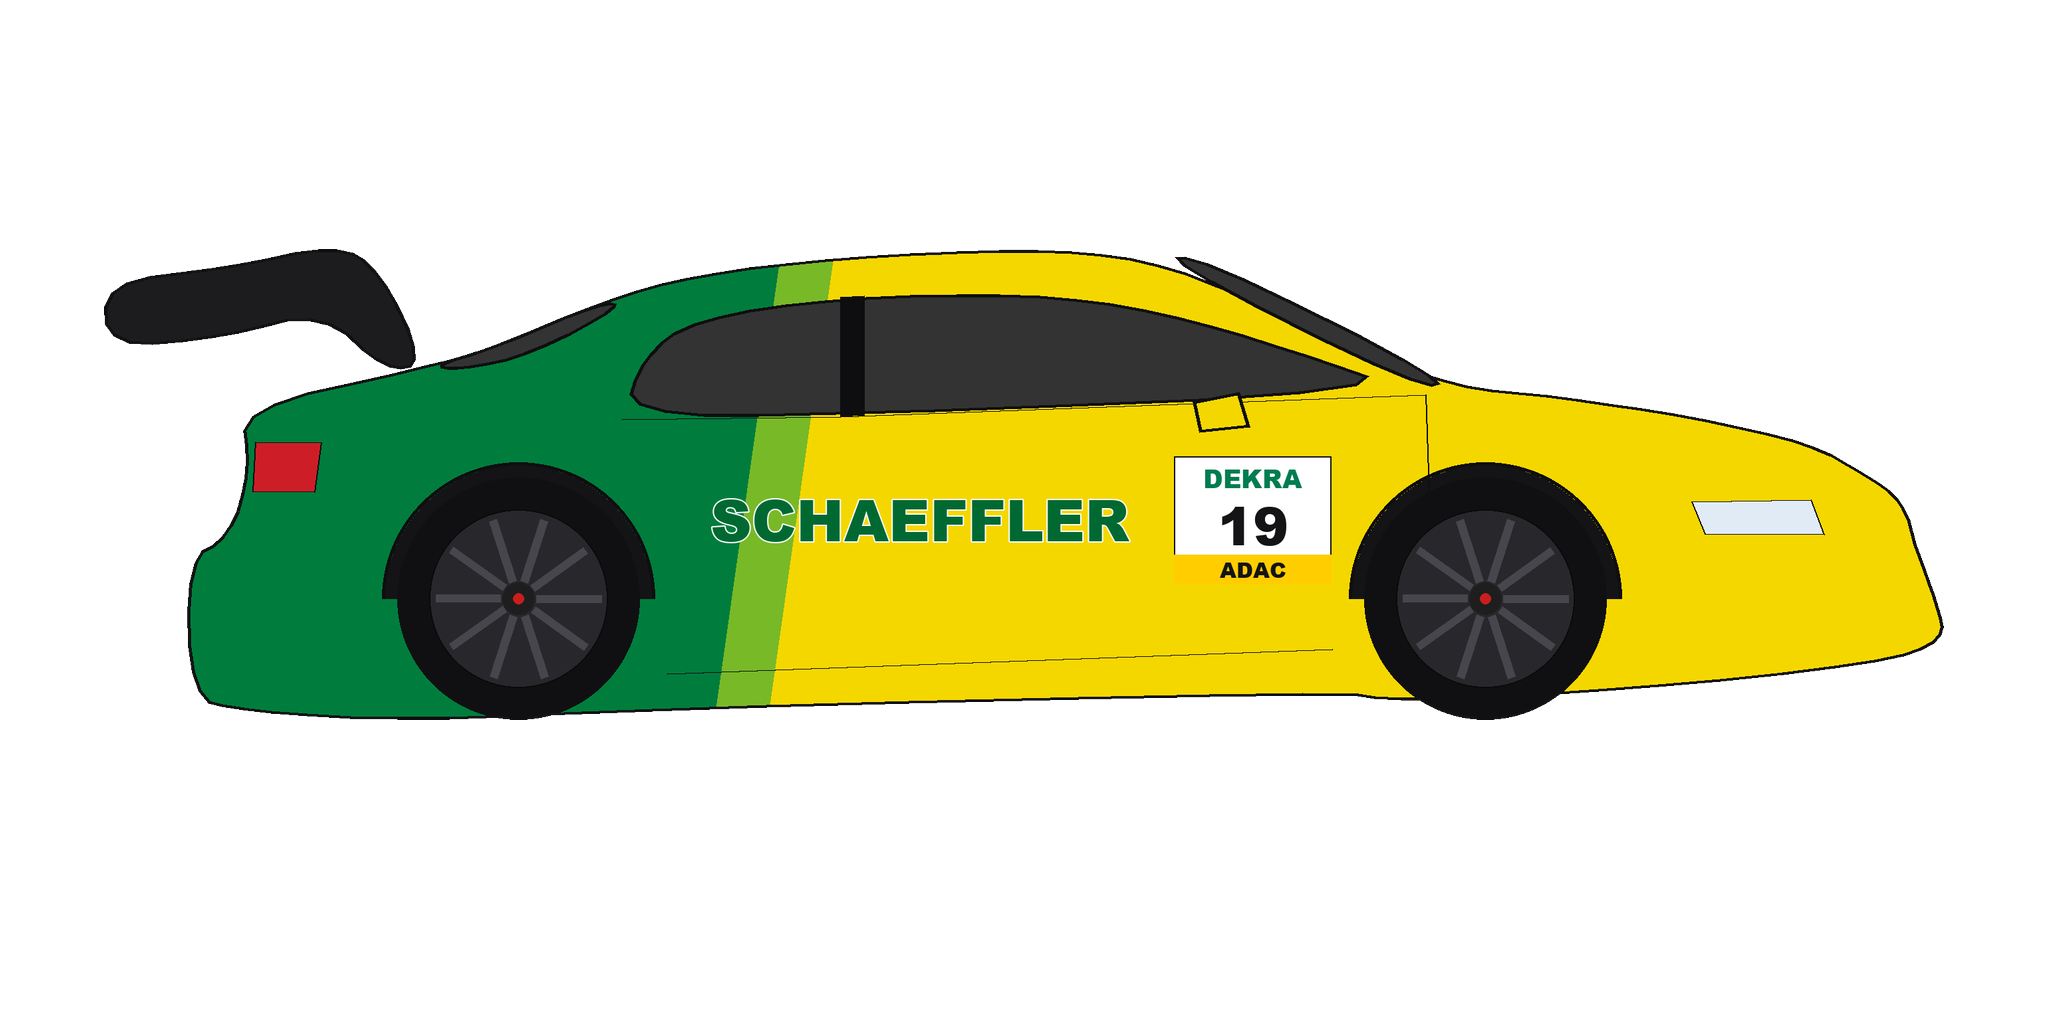
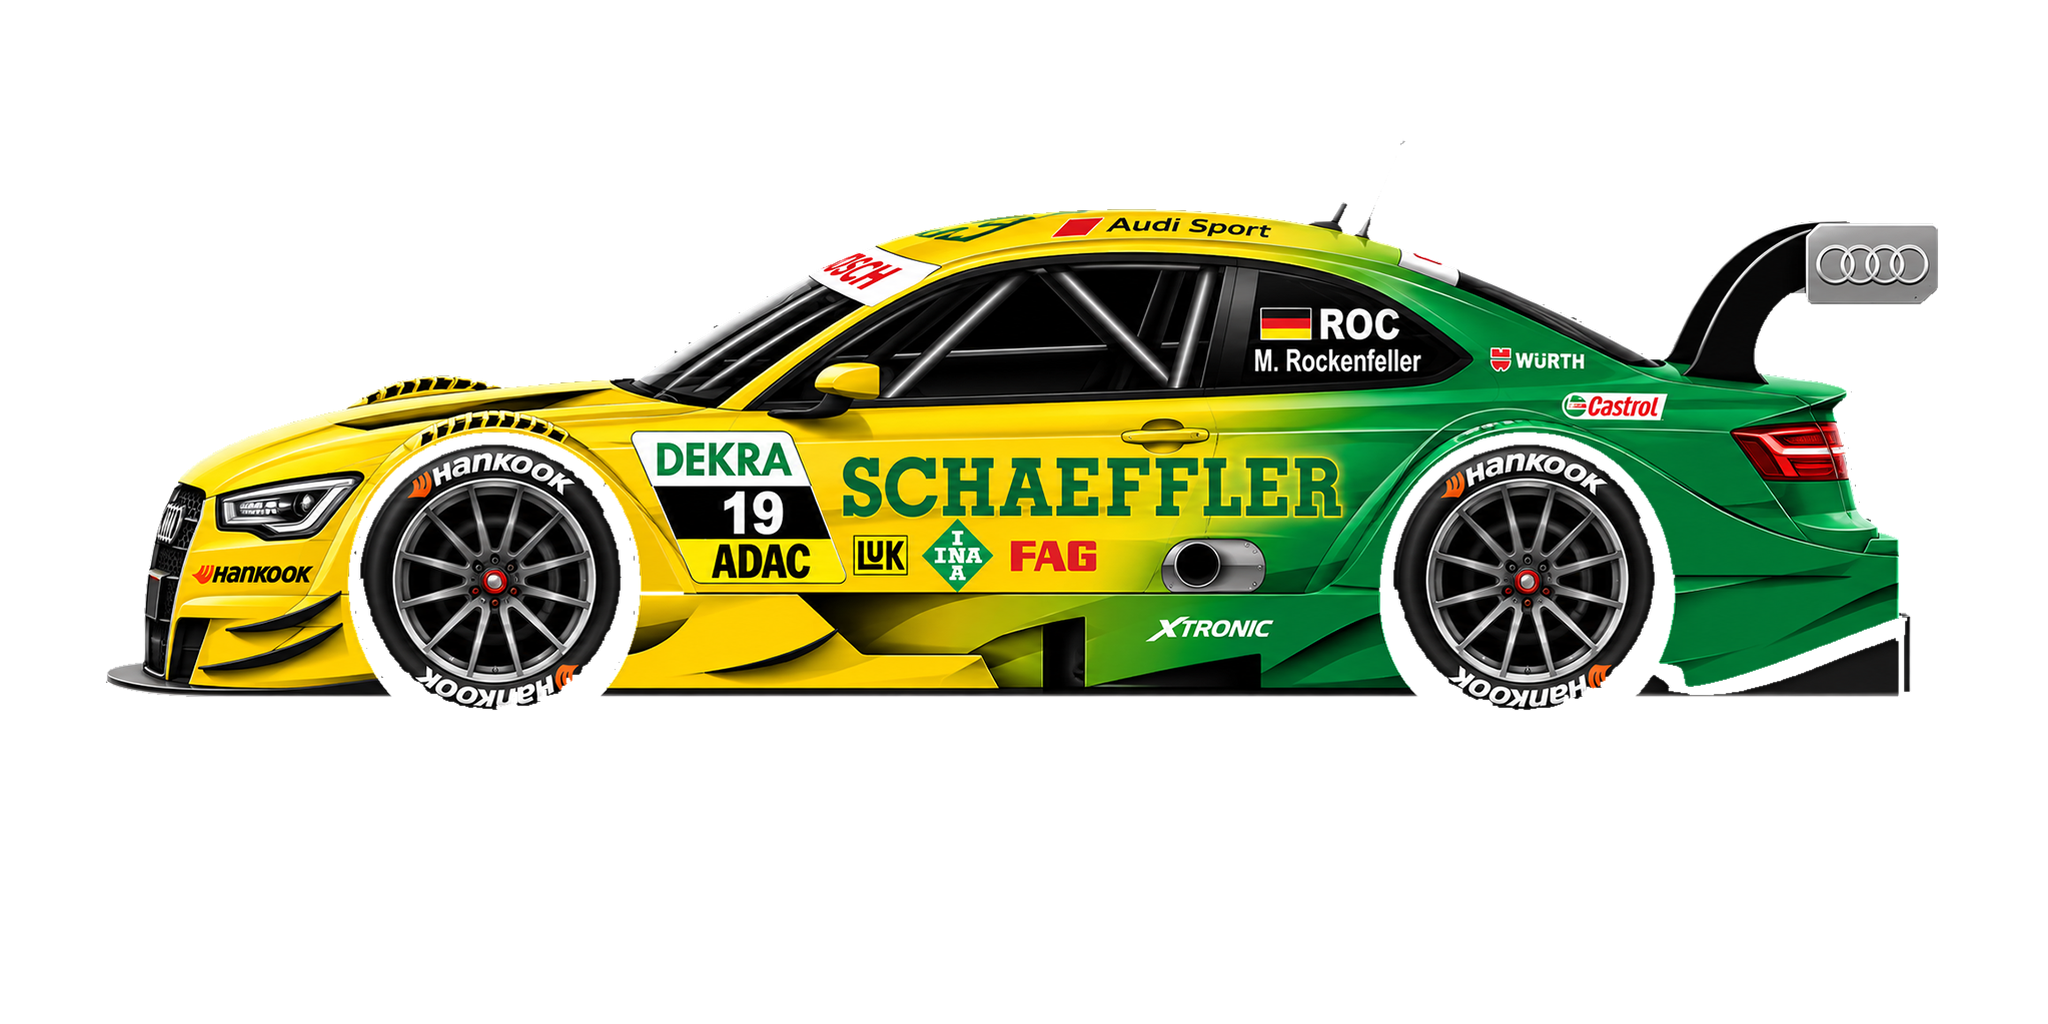
DTM 2013: car images drawn by Pappydhorn12
All 11 team images are now Pappydhorn12's drawings, used with the
artist's permission (all rights stay with the artist; see
LICENSE-CONTENT.md and credits.txt).

New tools/car_drawings.py crops the artist's team sheets (cars on black,
stacked) into the 2048x1024 team images, using art/drawings.json to pick
each team's lower-numbered car. car_art.py now skips teams that have a
drawing.

Checked against the 2013 spotter guide: every livery matches apart from
two text details (#23 "T. Schneider", #5 SCHAEFFLER for PLAYBOY). The
sheet named RBM shows the 2014 M4 cars and isn't used; the 2013 RBM cars
come from the first sheet named Schnitzer.

diff --git a/tools/car_drawings.py b/tools/car_drawings.py
@@ -1,0 +1,151 @@
+"""Crop hand-drawn car sheets into the game's 2048x1024 team car images.
+
+A season's art/drawings.json lists sheets from an artist: square images of a
+team's cars on a black background, stacked top to bottom. Each car is cut
+out (the background made transparent), scaled to the span car_art.py uses
+(1840 px wide, wheels on y=720) and written:
+
+* the team image to <season>/assets/Cars/<Team>.png (the game shows one car
+  per team: the sheet's "team" takes its first car, "teams" names a car per
+  team);
+* every car to build/art/<season>/drawn_NN.png for checking.
+
+car_art.py skips the teams listed here, so a rerun doesn't overwrite them.
+
+The source folder is outside the repo: pass --source or set
+"car_drawings": {"<season folder>": "<dir>"} in local.json.
+
+Usage:
+    python tools/car_drawings.py seasons/dtm-2013 [--source DIR] [--preview]
+"""
+
+import argparse
+import json
+import math
+from pathlib import Path
+
+import numpy as np
+from PIL import Image, ImageChops, ImageDraw, ImageFilter
+from scipy import ndimage
+
+from car_art import CACHE, CANVAS, CAR_SPAN_PX, GROUND_Y, REPO, font, load_json
+
+BLACK_MAX = 6        # background is pure black; tyres and black bodies are lighter
+MIN_CAR_ROWS = 80    # a band of rows shorter than this is not a car
+BODY_ROW_PX = 40     # a row with fewer car pixels is an antenna or a gap
+
+
+def foreground(rgb):
+    """Pixels that aren't the black background reachable from the edges."""
+    dark = rgb.max(axis=2) <= BLACK_MAX
+    labels, _ = ndimage.label(dark)
+    edge = np.unique(np.concatenate([labels[0], labels[-1], labels[:, 0], labels[:, -1]]))
+    bg = np.isin(labels, edge[edge > 0])
+    return ~bg
+
+
+def cut_cars(path):
+    """The cars on a sheet, top to bottom, as RGBA crops."""
+    im = Image.open(path).convert("RGB")
+    rgb = np.asarray(im)
+    fg = foreground(rgb)
+    # Cars can sit so close that one's antenna touches the car above, so
+    # split on rows that are nearly empty (antennas only) rather than blank.
+    count = fg.sum(axis=1)
+    body = np.append(count >= BODY_ROW_PX, False)
+    runs, start = [], None
+    for y, on in enumerate(body):
+        if on and start is None:
+            start = y
+        elif not on and start is not None:
+            if y - start >= MIN_CAR_ROWS:
+                runs.append((start, y))
+            start = None
+    cuts = [0] + [a_end + int(np.argmin(count[a_end:b_start]))
+                  for (_, a_end), (b_start, _) in zip(runs, runs[1:])] + [len(count)]
+    bands = list(zip(cuts, cuts[1:]))
+    for (_, y1), (_, run_end) in zip(bands, runs):
+        # Under a car's sill, a thin sliver is the next car's antenna tip.
+        below = fg[run_end:y1]
+        if not below.size:
+            continue
+        labels, n = ndimage.label(below)
+        for i, sl in enumerate(ndimage.find_objects(labels), start=1):
+            if sl[1].stop - sl[1].start < 12:
+                below[labels == i] = False
+    alpha = Image.fromarray((fg * 255).astype(np.uint8))
+    # Pull the edge in by a pixel and soften it: the drawing is antialiased
+    # against black, which would leave a dark fringe on a light background.
+    alpha = alpha.filter(ImageFilter.MinFilter(3)).filter(ImageFilter.GaussianBlur(0.6))
+    rgba = im.copy()
+    rgba.putalpha(alpha)
+    cars = []
+    for y0, y1 in bands:
+        band = np.zeros_like(fg)
+        band[y0:y1] = fg[y0:y1]
+        rows, cols = np.where(band.any(axis=1))[0], np.where(band.any(axis=0))[0]
+        car = Image.new("RGBA", rgba.size, (0, 0, 0, 0))
+        car.paste(rgba, mask=Image.fromarray(band).convert("L").point(lambda v: 255 if v else 0))
+        car.putalpha(ImageChops.multiply(car.getchannel("A"), alpha))
+        cars.append(car.crop((int(cols[0]), int(rows[0]), int(cols[-1]) + 1, int(rows[-1]) + 1)))
+    return cars
+
+
+def place(car):
+    """A car crop on the game canvas, scaled to car_art.py's span and ground line."""
+    scale = CAR_SPAN_PX / car.width
+    w, h = CAR_SPAN_PX, round(car.height * scale)
+    if h > GROUND_Y:
+        raise SystemExit(f"car too tall for the canvas ({h} px)")
+    canvas = Image.new("RGBA", CANVAS, (0, 0, 0, 0))
+    canvas.alpha_composite(car.resize((w, h), Image.LANCZOS), ((CANVAS[0] - w) // 2, GROUND_Y - h))
+    return canvas
+
+
+def main():
+    parser = argparse.ArgumentParser(description=__doc__, formatter_class=argparse.RawDescriptionHelpFormatter)
+    parser.add_argument("season", type=Path)
+    parser.add_argument("--source", type=Path, help="folder with the artist's sheets")
+    parser.add_argument("--preview", action="store_true", help="also write build/art/drawings_preview.png")
+    args = parser.parse_args()
+    season = args.season.resolve()
+    cfg = load_json(season / "art" / "drawings.json")
+    source = args.source
+    if source is None:
+        local = load_json(REPO / "local.json") if (REPO / "local.json").exists() else {}
+        source = local.get("car_drawings", {}).get(season.name)
+        if not source:
+            raise SystemExit(f'pass --source or set "car_drawings": {{"{season.name}": "<dir>"}} in local.json')
+        source = Path(source)
+    out_dir = season / "assets" / "Cars"
+    all_dir = CACHE / season.name
+    all_dir.mkdir(parents=True, exist_ok=True)
+    written = []
+    for name, sheet in cfg["sheets"].items():
+        cars = cut_cars(source / name)
+        if len(cars) != len(sheet["cars"]):
+            raise SystemExit(f"{name}: found {len(cars)} cars, drawings.json lists {len(sheet['cars'])}")
+        by_number = dict(zip(sheet["cars"], (place(c) for c in cars)))
+        for number, img in by_number.items():
+            img.save(all_dir / f"drawn_{number:02d}.png", optimize=True)
+        teams = {sheet["team"]: sheet["cars"][0]} if "team" in sheet else sheet["teams"]
+        for team, number in teams.items():
+            path = out_dir / f"{team.replace(' ', '')}.png"
+            by_number[number].save(path, optimize=True)
+            written.append((f"#{number} - {team}", by_number[number]))
+            print(f"wrote {path.relative_to(REPO)} (#{number} from {name})")
+    if args.preview:
+        cols, w, h = 2, 1024, 512
+        sheet = Image.new("RGB", (cols * w, math.ceil(len(written) / cols) * (h + 34)), (200, 200, 204))
+        d = ImageDraw.Draw(sheet)
+        for i, (label, img) in enumerate(written):
+            x, y = (i % cols) * w, (i // cols) * (h + 34)
+            small = img.resize((w, h), Image.LANCZOS)
+            sheet.paste(small, (x, y + 34), small)
+            d.text((x + 10, y + 8), label, fill=(0, 0, 0), font=font(22))
+        sheet.save(CACHE / "drawings_preview.png")
+        print(f"preview: {(CACHE / 'drawings_preview.png').relative_to(REPO)}")
+
+
+if __name__ == "__main__":
+    main()

diff --git a/tools/car_art.py b/tools/car_art.py
@@ -483,6 +483,17 @@ def render_car(model, livery, zip_path, season=None):
     return fit_canvas(out)
 
 
+def drawing_teams(season):
+    """Teams whose image comes from an artist's drawing (<season>/art/drawings.json)."""
+    path = season / "art" / "drawings.json"
+    if not path.exists():
+        return set()
+    teams = set()
+    for sheet in load_json(path)["sheets"].values():
+        teams.update([sheet["team"]] if "team" in sheet else sheet["teams"])
+    return teams
+
+
 def main():
     parser = argparse.ArgumentParser(description=__doc__, formatter_class=argparse.RawDescriptionHelpFormatter)
     parser.add_argument("season", type=Path)
@@ -500,7 +511,10 @@ def main():
         # Layered liveries: every car, first car of each team as the team image.
         all_dir = CACHE / season.name
         all_dir.mkdir(parents=True, exist_ok=True)
-        done = set()
+        # Teams with an artist's drawing (car_drawings.py) keep it.
+        done = drawing_teams(season)
+        for team in sorted(done):
+            print(f"kept the drawing for {team} (tools/car_drawings.py)")
         for car in cfg["cars"]:
             if args.only and car["team"] != args.only:
                 continue

diff --git a/seasons/dtm-2013/README.md b/seasons/dtm-2013/README.md
@@ -70,7 +70,18 @@ two-car teams, DRS, a mandatory option tyre and knockout qualifying.
   70 minutes; the Nürburgring 49 laps, of which the wet race ran 45) and one
   DRS zone (`drs_zones`) on the longest straight. Zandvoort has none: DRS wasn't used there in 2013.
 - **Art:**
-  - Cars: layered liveries drawn on our own outlines of the three cars, traced
+  - Cars: drawn by Pappydhorn12 (used with permission, see
+    [credits.txt](credits.txt)) and cropped from their team sheets with
+    `tools/car_drawings.py` (`art/drawings.json`). Checked against the 2013
+    spotter guide on 2026-11-07: every livery matches, with two small text
+    differences (#23's name panel reads "T. Schneider" for Scheider; #5 has
+    SCHAEFFLER on the rear quarter where the guide shows PLAYBOY). The first
+    sheet named Schnitzer holds the 2013 RBM cars, which are used for RBM;
+    the corrected Schnitzer sheet is saved as `BMW_Team_Schnitzer_1_2.png`.
+    The sheet named RBM shows 2014 cars (BMW M4, Farfus in BMW Bank colours)
+    and isn't used.
+  - Placeholder cars (`tools/car_art.py`, no longer shipped; it skips every
+    team in `drawings.json`): layered liveries drawn on our own outlines of the three cars, traced
     from Commons photos (`art/*_trace.json`, `art/cars.json`, see
     [credits.txt](credits.txt)). The colours and sponsor positions were read
     from period photos and Andy Blackmore's 2013 spotter guide. The guide was
@@ -222,6 +233,13 @@ python tools/osm_track.py seasons/dtm-2013/track_specs/*.json
 ```bash
 python tools/car_art.py seasons/dtm-2013 --preview
 ```
+
+```bash
+python tools/car_drawings.py seasons/dtm-2013 --preview
+```
+
+`car_drawings.py` reads the artist's sheets from `--source` or
+`"car_drawings": {"dtm-2013": "<folder>"}` in `local.json`.
 
 ```bash
 python tools/logo_art.py seasons/dtm-2013

diff --git a/LICENSE-CONTENT.md b/LICENSE-CONTENT.md
@@ -59,6 +59,14 @@ Because of ShareAlike, these images are licensed **CC BY-SA 4.0**
 credits are in each pack's `credits.txt`. The liveries show real sponsor
 trademarks, which belong to their owners.
 
+### Artist drawings
+
+Some team car images are an artist's own drawings, used with their
+permission and listed per season in `seasons/*/art/drawings.json` (DTM 2013:
+Pappydhorn12). All rights to them stay with the artist: they are not under
+CC BY-SA or CC BY-NC-SA, and may not be reused outside these packs without
+the artist's permission. `tools/car_drawings.py` only crops them.
+
 ## Driver portraits
 
 Driver portraits (`seasons/*/assets/portraits`, made with
